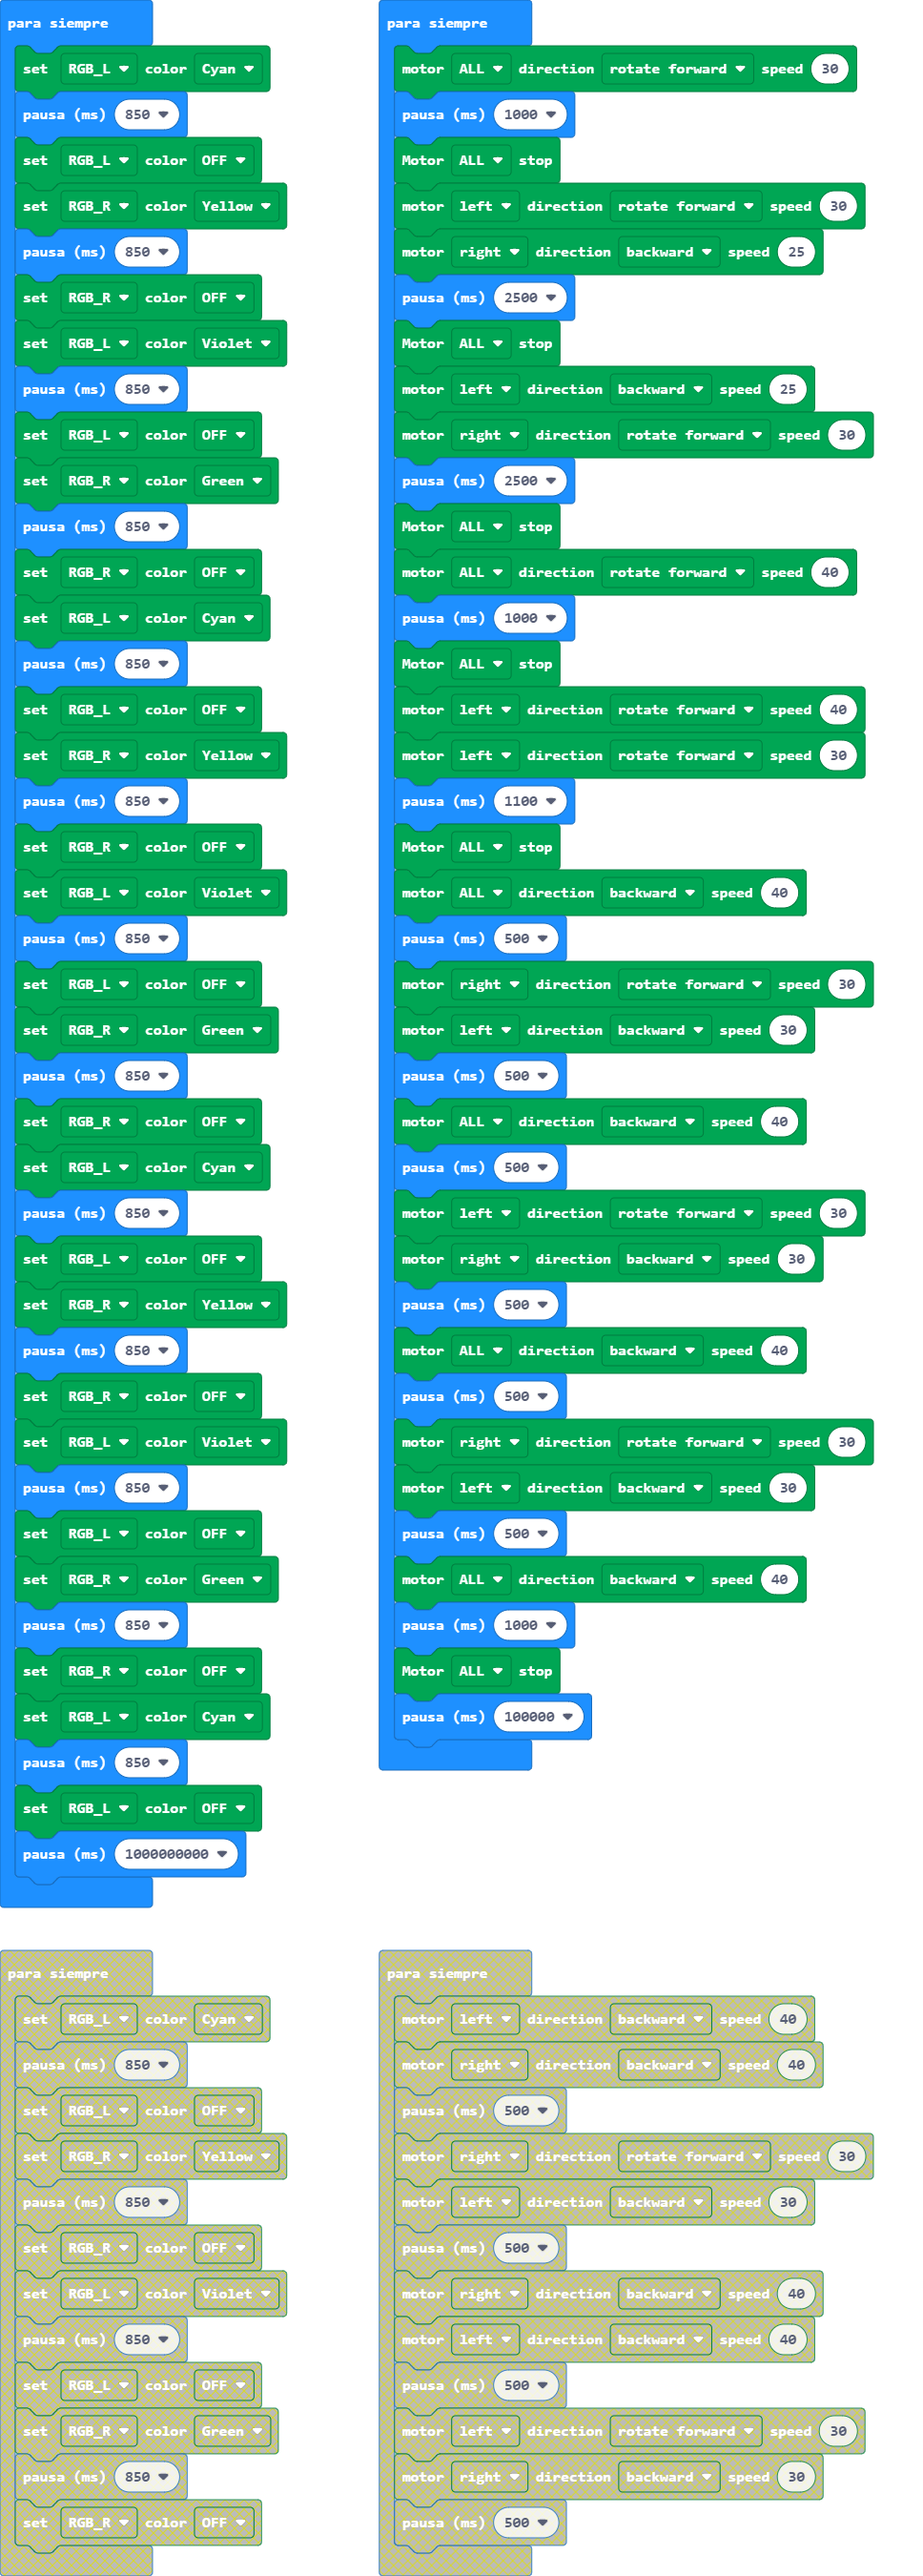
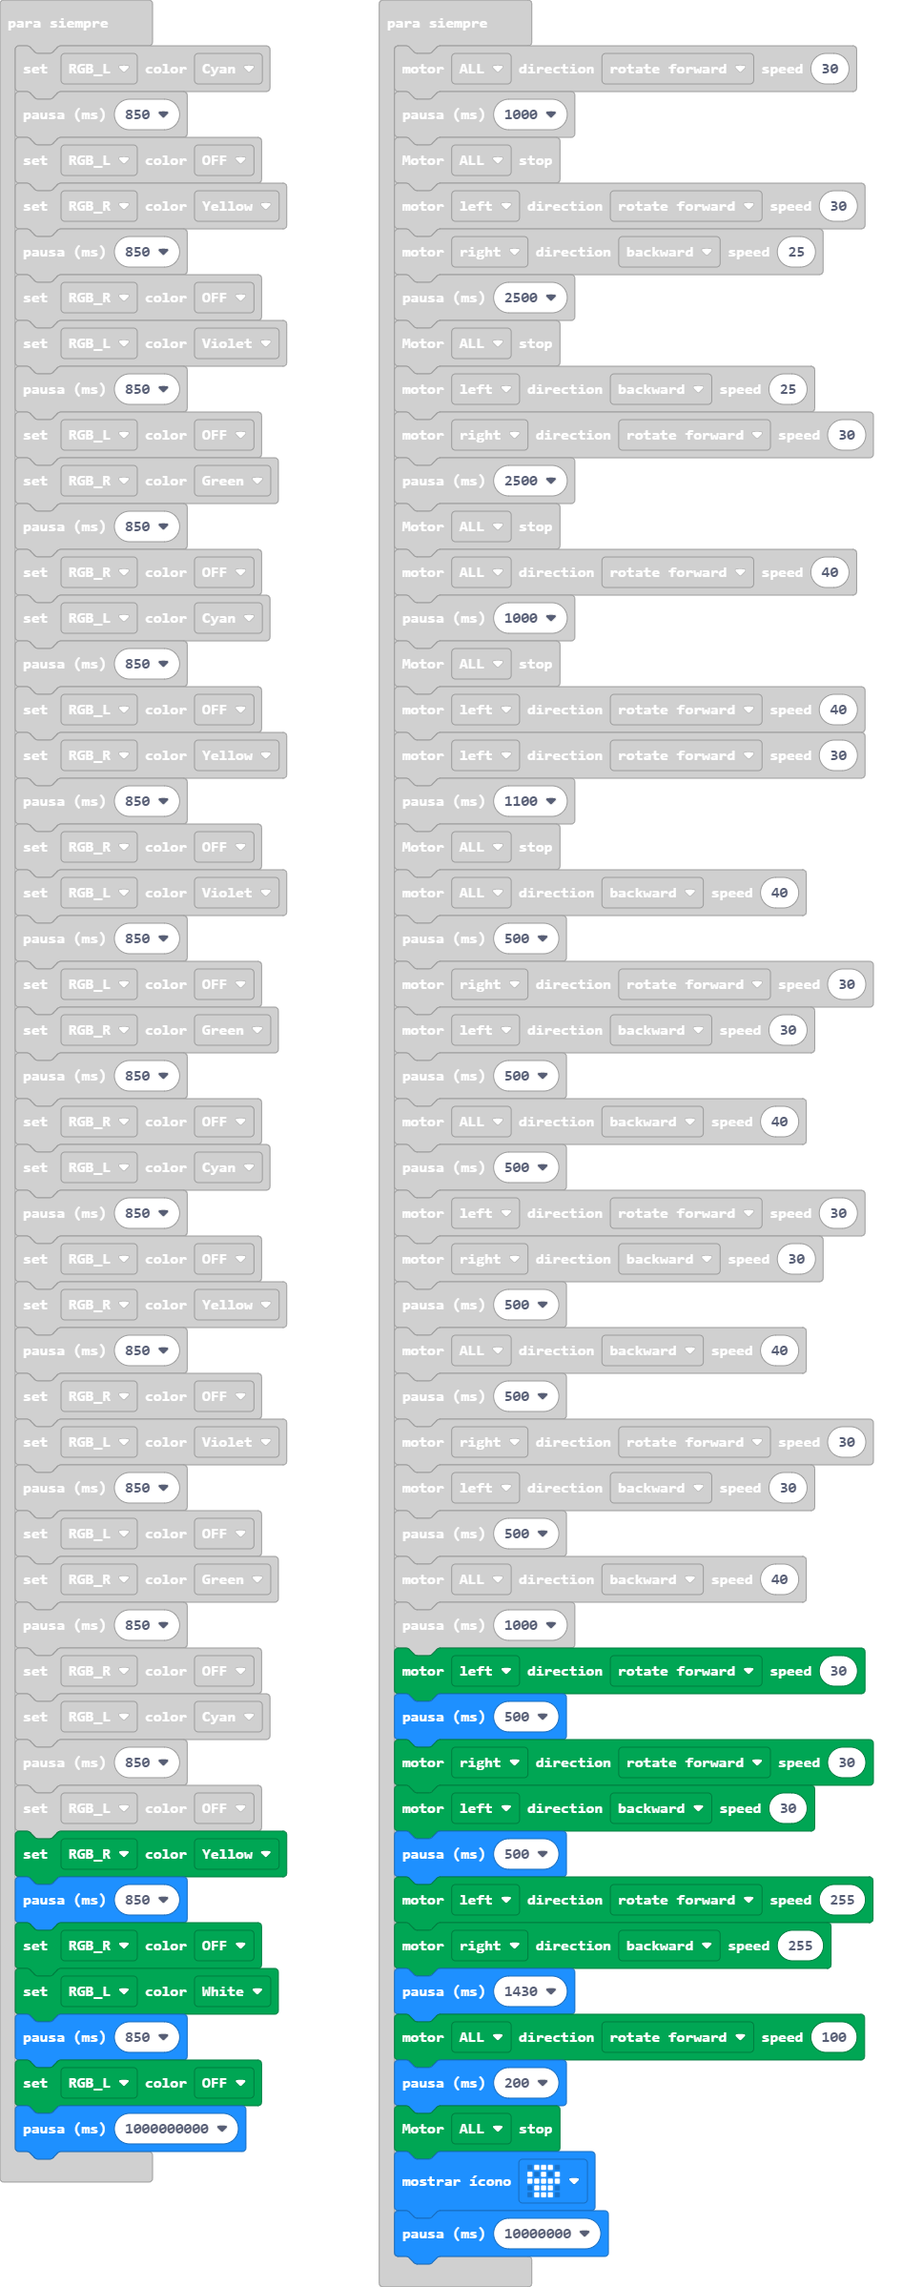
Actualizar main.blocks, main.ts

diff --git a/main.ts b/main.ts
@@ -39,6 +39,12 @@ basic.forever(function () {
     DFRobotMaqueenPlus.setRGBLight(RGBLight.RGBL, Color.CYAN)
     basic.pause(850)
     DFRobotMaqueenPlus.setRGBLight(RGBLight.RGBL, Color.OFF)
+    DFRobotMaqueenPlus.setRGBLight(RGBLight.RGBR, Color.YELLOW)
+    basic.pause(850)
+    DFRobotMaqueenPlus.setRGBLight(RGBLight.RGBR, Color.OFF)
+    DFRobotMaqueenPlus.setRGBLight(RGBLight.RGBL, Color.WHITH)
+    basic.pause(850)
+    DFRobotMaqueenPlus.setRGBLight(RGBLight.RGBL, Color.OFF)
     basic.pause(1000000000)
 })
 basic.forever(function () {
@@ -77,6 +83,17 @@ basic.forever(function () {
     basic.pause(500)
     DFRobotMaqueenPlus.mototRun(Motors.ALL, Dir.CCW, 40)
     basic.pause(1000)
+    DFRobotMaqueenPlus.mototRun(Motors.M1, Dir.CW, 30)
+    basic.pause(500)
+    DFRobotMaqueenPlus.mototRun(Motors.M2, Dir.CW, 30)
+    DFRobotMaqueenPlus.mototRun(Motors.M1, Dir.CCW, 30)
+    basic.pause(500)
+    DFRobotMaqueenPlus.mototRun(Motors.M1, Dir.CW, 255)
+    DFRobotMaqueenPlus.mototRun(Motors.M2, Dir.CCW, 255)
+    basic.pause(1430)
+    DFRobotMaqueenPlus.mototRun(Motors.ALL, Dir.CW, 100)
+    basic.pause(200)
     DFRobotMaqueenPlus.mototStop(Motors.ALL)
-    basic.pause(100000)
+    basic.showIcon(IconNames.Skull)
+    basic.pause(10000000)
 })
